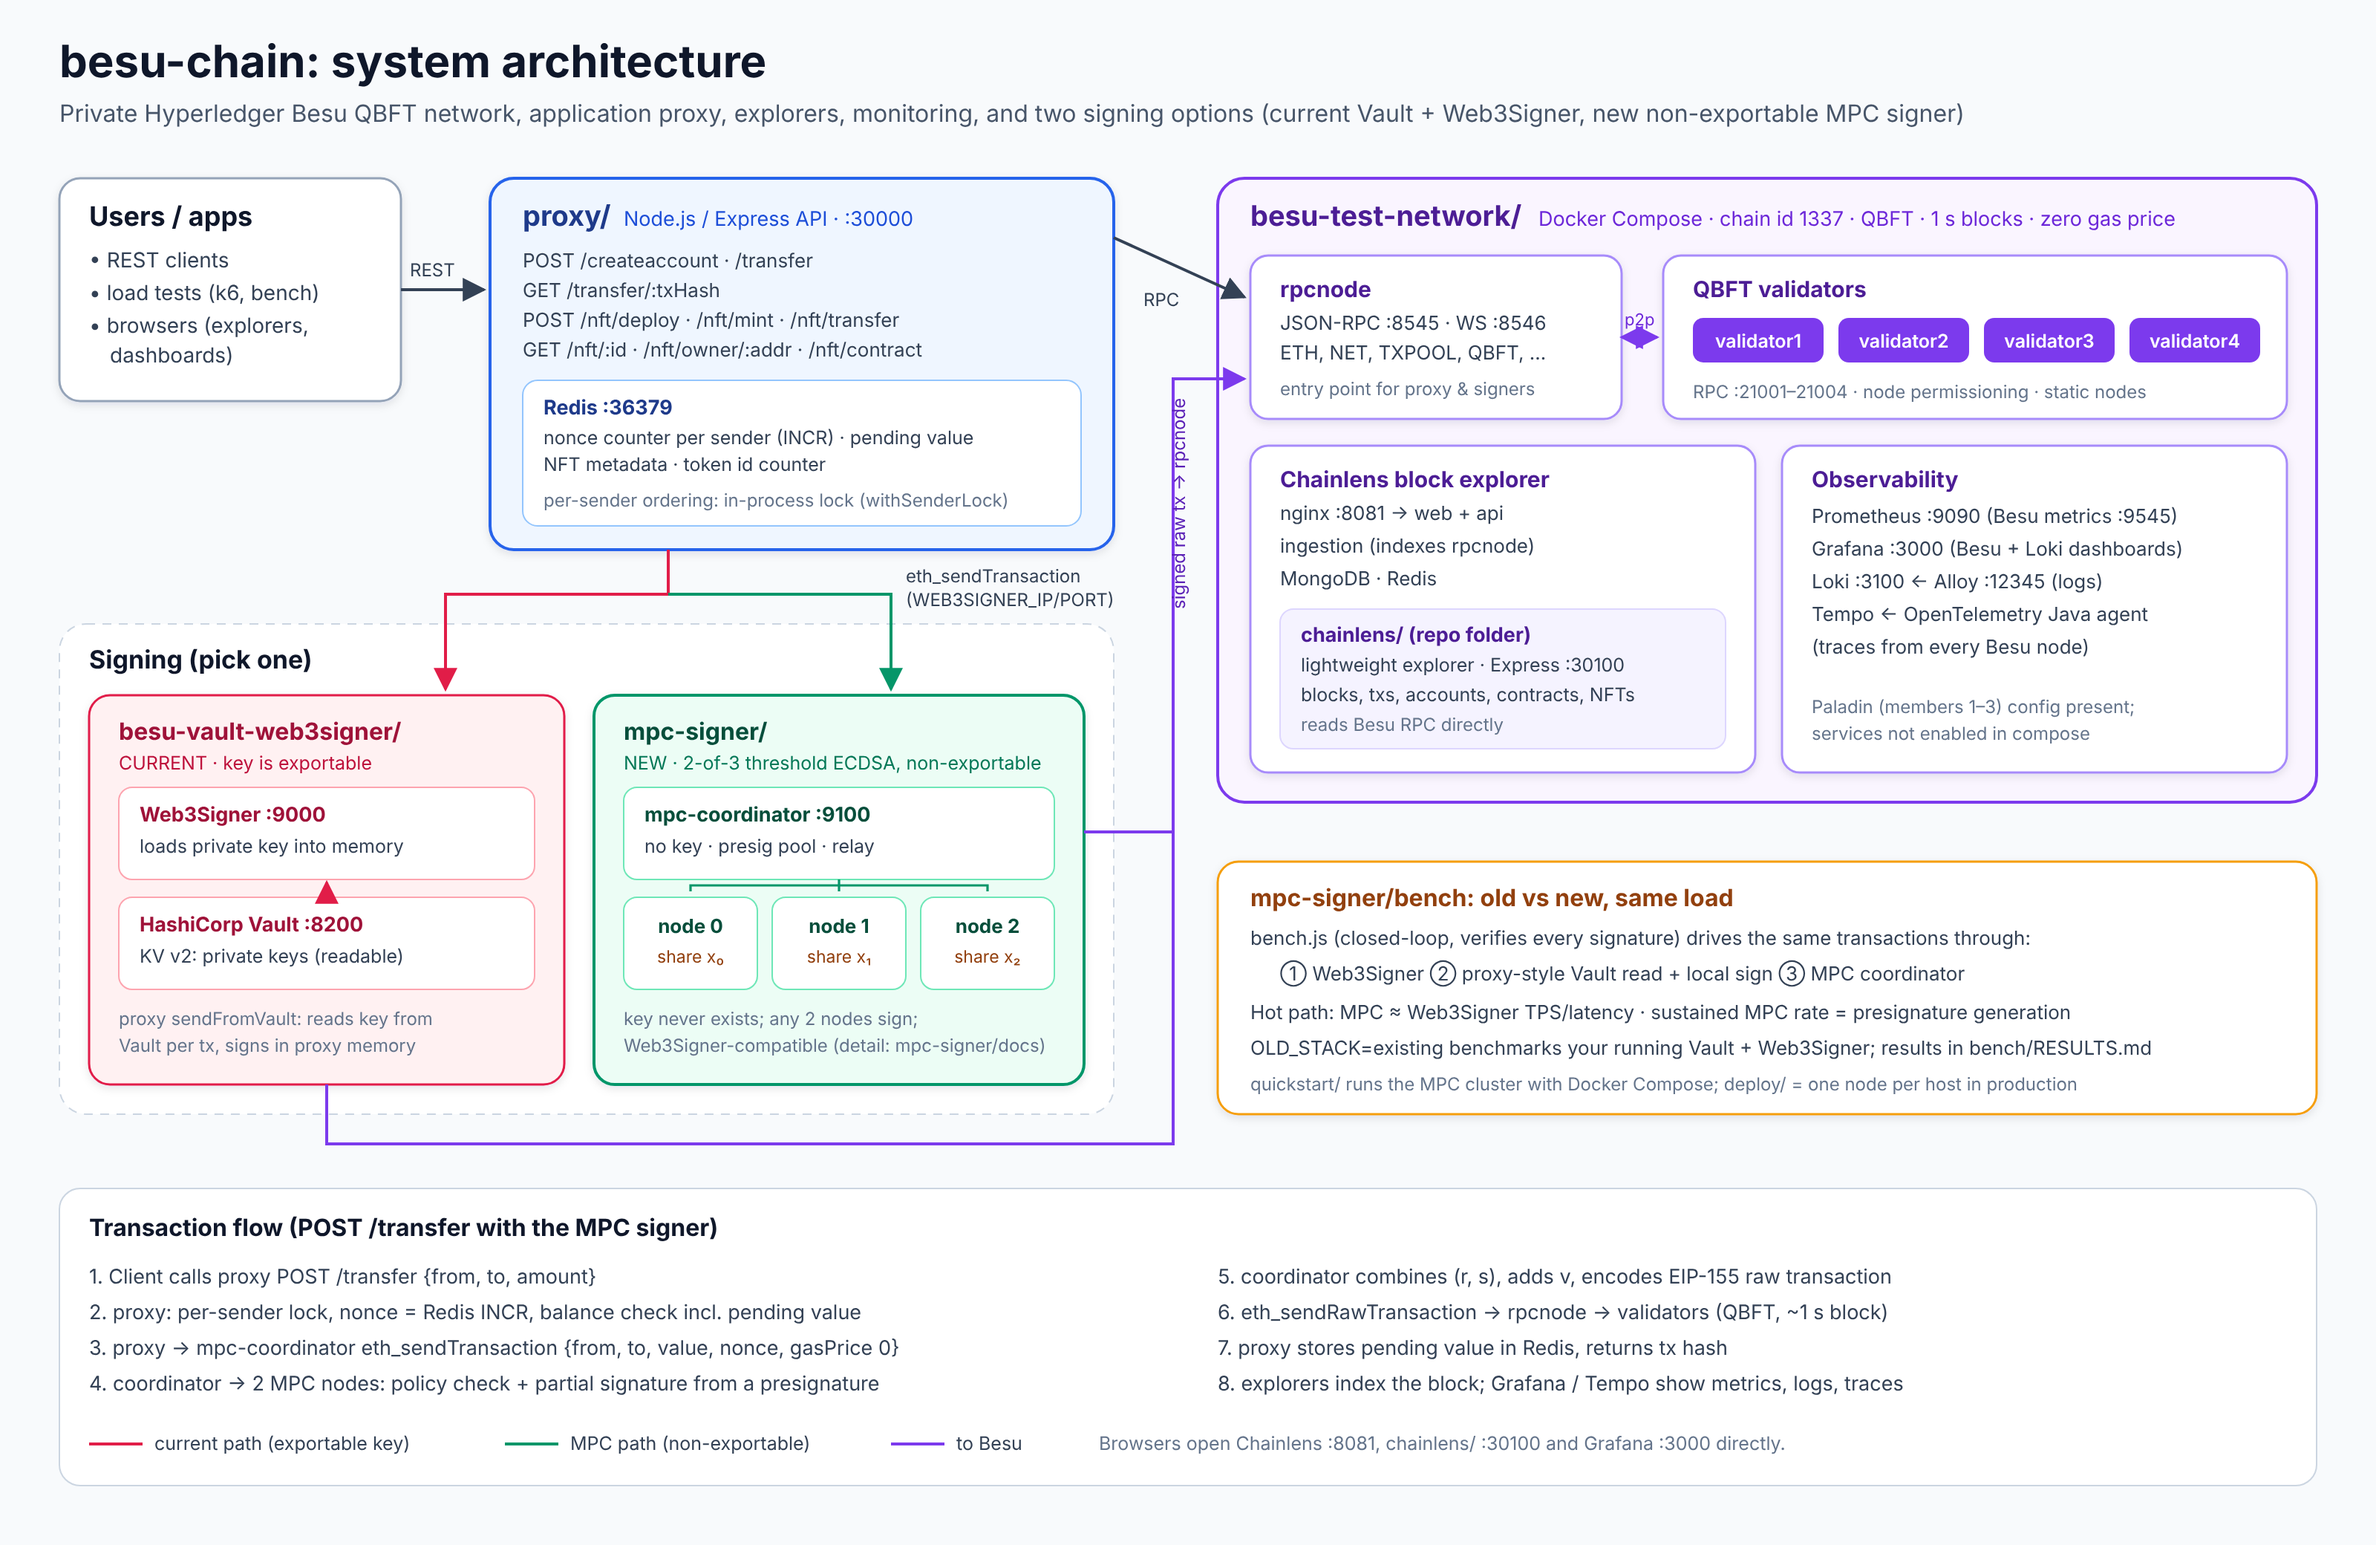
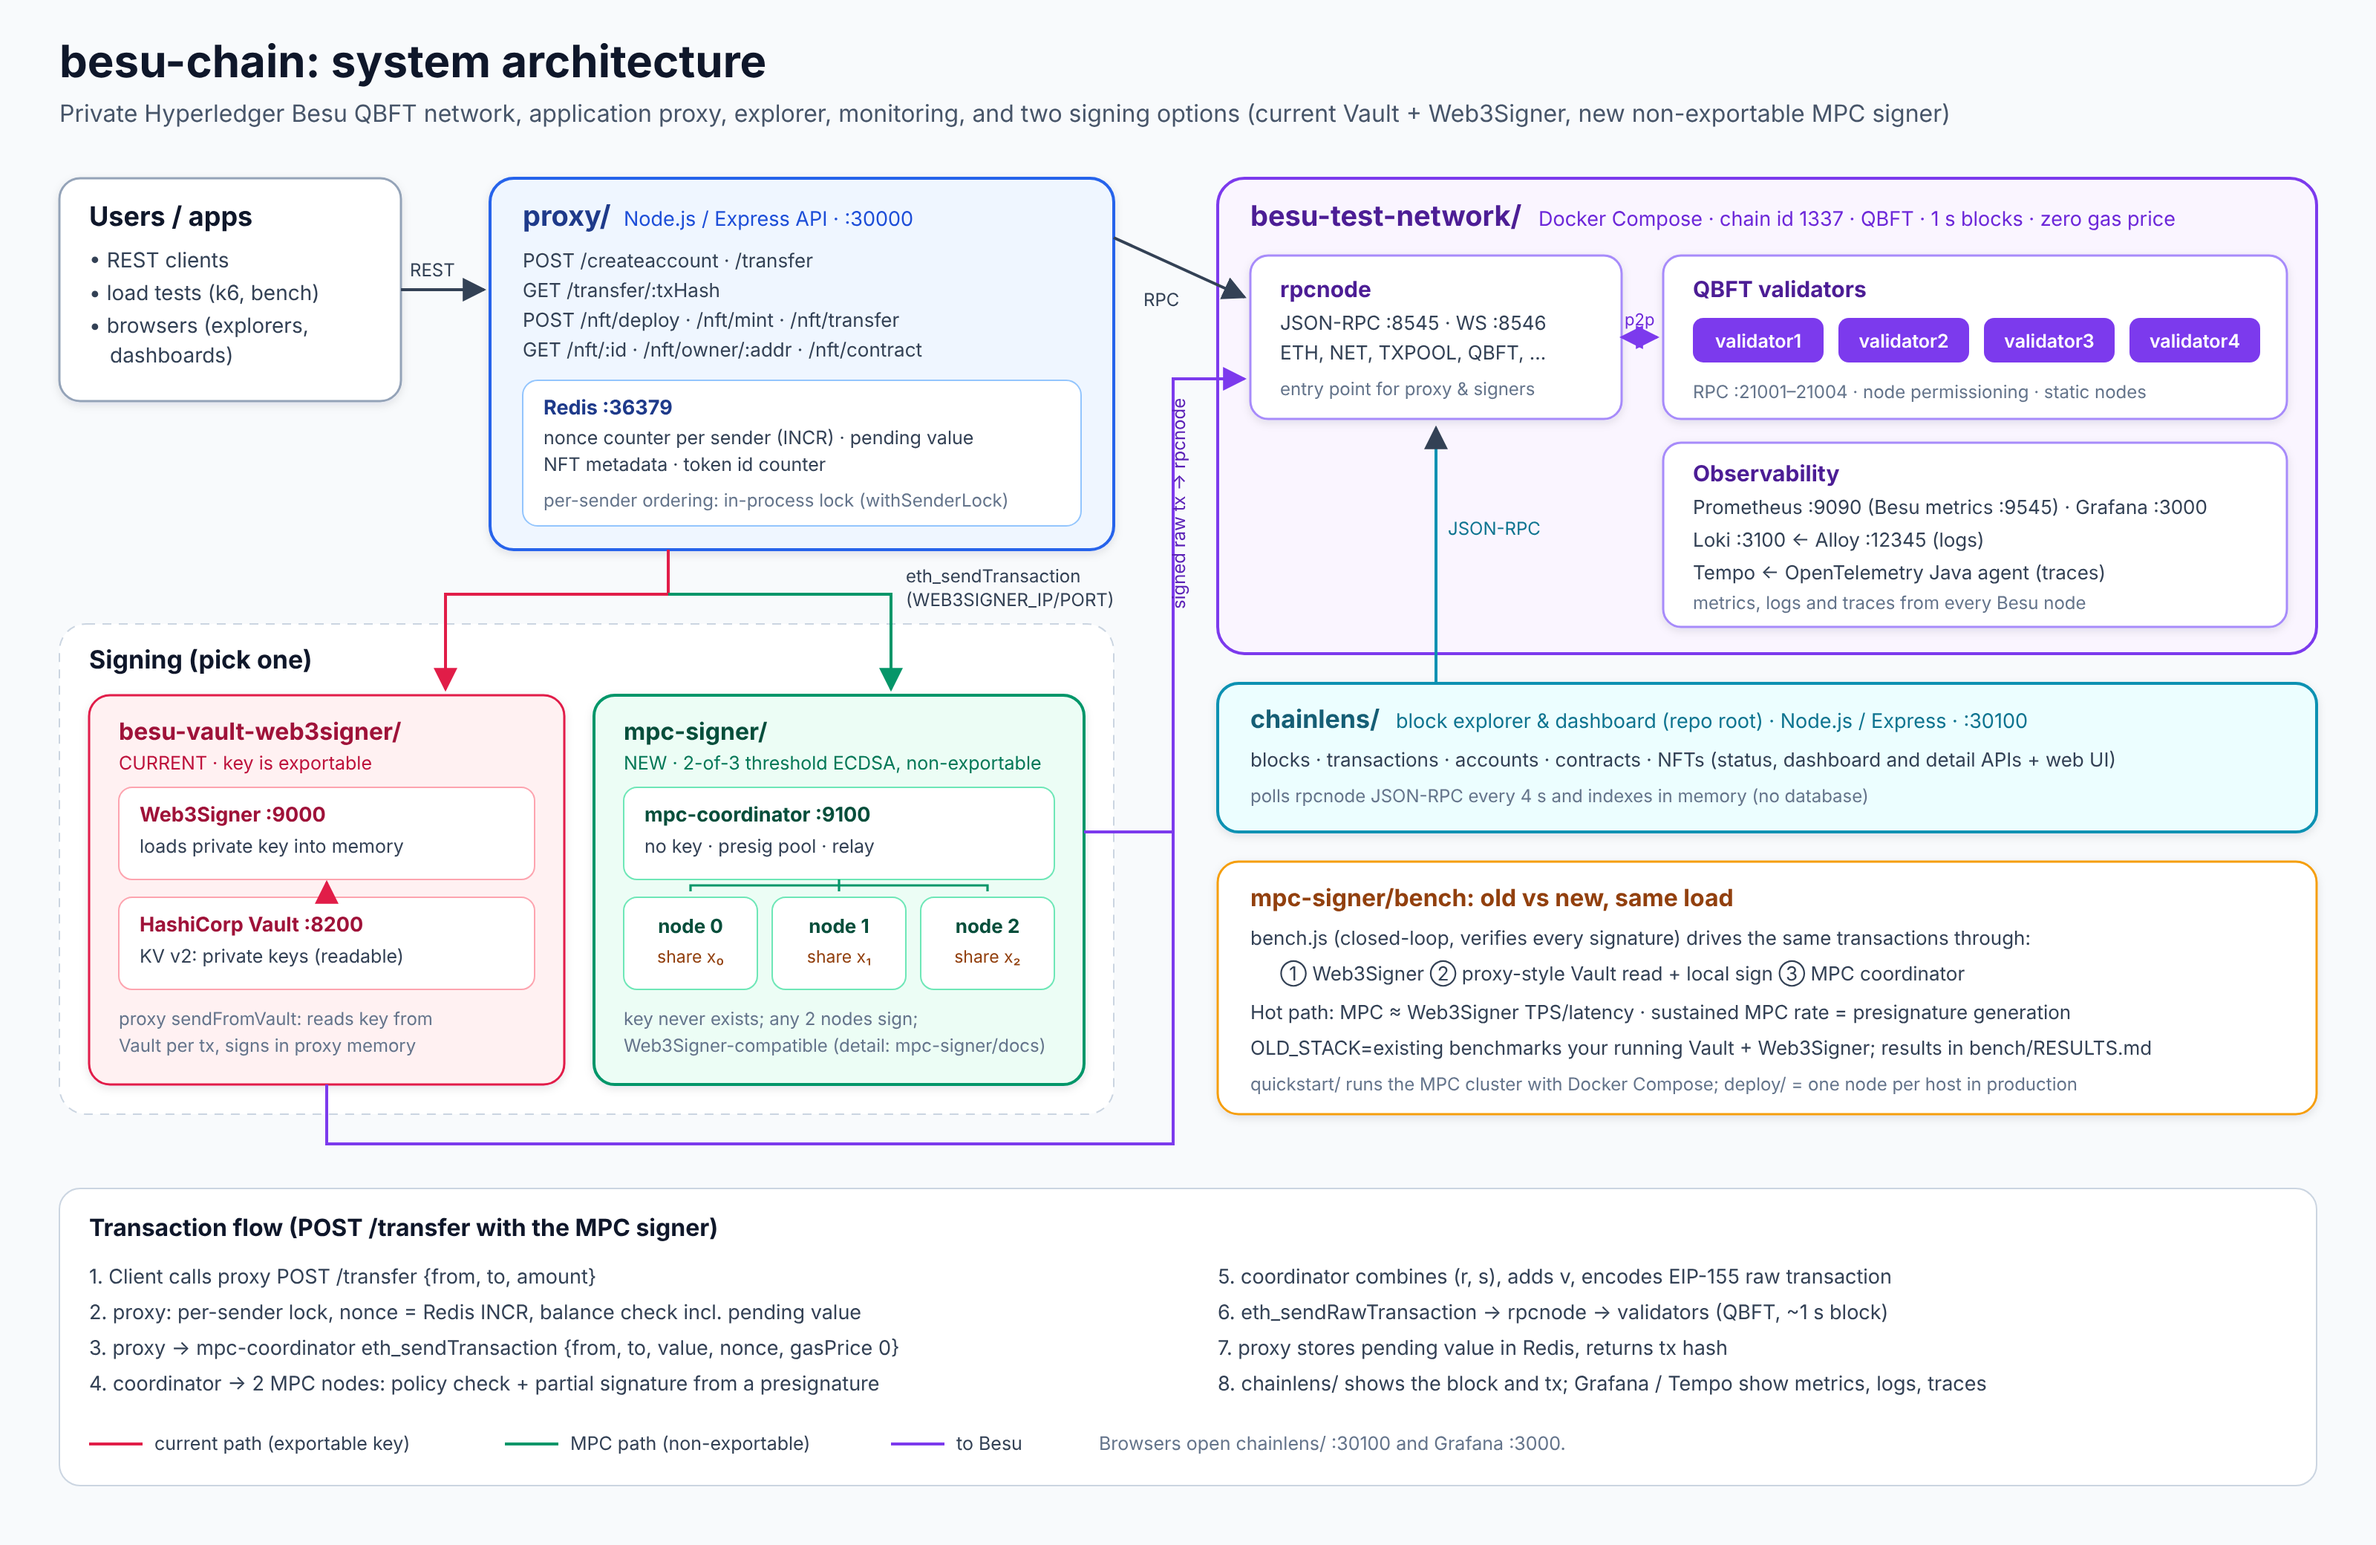
docs: chainlens/ (repo root) is the explorer, not the bundled Chainlens services
Claude-Session: https://claude.ai/code/session_019V6cx31VFNJeRBvaBtQspb

diff --git a/README.md b/README.md
@@ -2,7 +2,7 @@
 
 A private Hyperledger Besu (QBFT) network with:
 - an application API (proxy) for accounts, transfers and NFTs
-- block explorers and monitoring
+- a block explorer (`chainlens/`) and monitoring
 - two ways to sign transactions:
   - **current:** HashiCorp Vault + Web3Signer
   - **new:** a non-exportable 2-of-3 MPC signer, where the private key never exists anywhere
@@ -17,9 +17,9 @@ A private Hyperledger Besu (QBFT) network with:
 
 | Folder | What it is | Ports |
 |---|---|---|
-| [`besu-test-network/`](besu-test-network) | Besu QBFT network (Docker Compose): 4 validators + `rpcnode`, chain id 1337, 1 s blocks, zero gas price, node permissioning. Also the Chainlens block explorer (nginx, web, api, ingestion, MongoDB, Redis) and observability: Prometheus, Grafana, Loki + Alloy (logs), Tempo + OpenTelemetry Java agent (traces). | 8545/8546 rpcnode, 21001–21004 validators, 8081 Chainlens, 9090 Prometheus, 3000 Grafana, 3100 Loki |
+| [`besu-test-network/`](besu-test-network) | Besu QBFT network (Docker Compose): 4 validators + `rpcnode`, chain id 1337, 1 s blocks, zero gas price, node permissioning. Observability: Prometheus, Grafana, Loki + Alloy (logs), Tempo + OpenTelemetry Java agent (traces). The Chainlens services bundled in this compose file are not used; the explorer is [`chainlens/`](chainlens). | 8545/8546 rpcnode, 21001–21004 validators, 9090 Prometheus, 3000 Grafana, 3100 Loki |
 | [`proxy/`](proxy) | Node.js/Express API used by applications: `POST /createaccount`, `/transfer`, `/nft/deploy`, `/nft/mint`, `/nft/transfer`, plus read endpoints. Redis holds a per-sender nonce counter (`INCR`), pending value and NFT metadata. Signs through Web3Signer, or for user accounts reads the key from Vault (`sendFromVault`). | 30000 API, 36379 Redis |
-| [`chainlens/`](chainlens) | Lightweight explorer/dashboard (Express) that reads Besu RPC directly: blocks, transactions, accounts, contracts, NFTs. | 30100 |
+| [`chainlens/`](chainlens) | **The block explorer in use.** Node.js/Express app with a web UI: blocks, transactions, accounts, contracts, NFTs. Polls `rpcnode` JSON-RPC every 4 s and keeps its index in memory (no database). | 30100 |
 | [`besu-vault-web3signer/`](besu-vault-web3signer) | **Current signer.** Vault KV v2 stores private keys; Web3Signer loads them into memory and signs `eth_sendTransaction`. The key is exportable. | 8200 Vault, 9000 Web3Signer |
 | [`mpc-signer/`](mpc-signer) | **New signer.** 2-of-3 threshold ECDSA (CGGMP24 / LFDT Lockness). Three nodes each hold one key share; a stateless coordinator exposes the same JSON-RPC as Web3Signer. Includes a Docker quick start, production deploy files and a benchmark against the current signer. | 9100 coordinator |
 
@@ -31,7 +31,7 @@ A private Hyperledger Besu (QBFT) network with:
    - **Current:** Web3Signer signs with the key it loaded from Vault.
    - **MPC:** the coordinator asks 2 of the 3 nodes for partial signatures. Each node checks the transaction against its policy before signing. The coordinator combines the partials into a normal ECDSA signature.
 4. The signed raw transaction goes to `rpcnode`, and the validators include it in a block (about 1 s).
-5. Chainlens and `chainlens/` index the block. Grafana and Tempo show the metrics, logs and traces.
+5. `chainlens/` picks up the block on its next poll and shows the transaction. Grafana and Tempo show the metrics, logs and traces.
 
 ### Current vs MPC signer
 
@@ -54,8 +54,11 @@ The MPC signer's architecture, quick start, deployment and benchmark are documen
 ## Getting started
 
 ```bash
-# 1. Besu network + explorer + monitoring
+# 1. Besu network + monitoring
 cd besu-test-network && ./run.sh
+
+# 1b. Block explorer (http://localhost:30100)
+cd chainlens && npm install && BESU_RPC=http://127.0.0.1:8545 node server.js
 
 # 2a. Current signer: see besu-vault-web3signer/README.md (Vault init/unseal, provisioning)
 # 2b. or the MPC signer (Docker)
